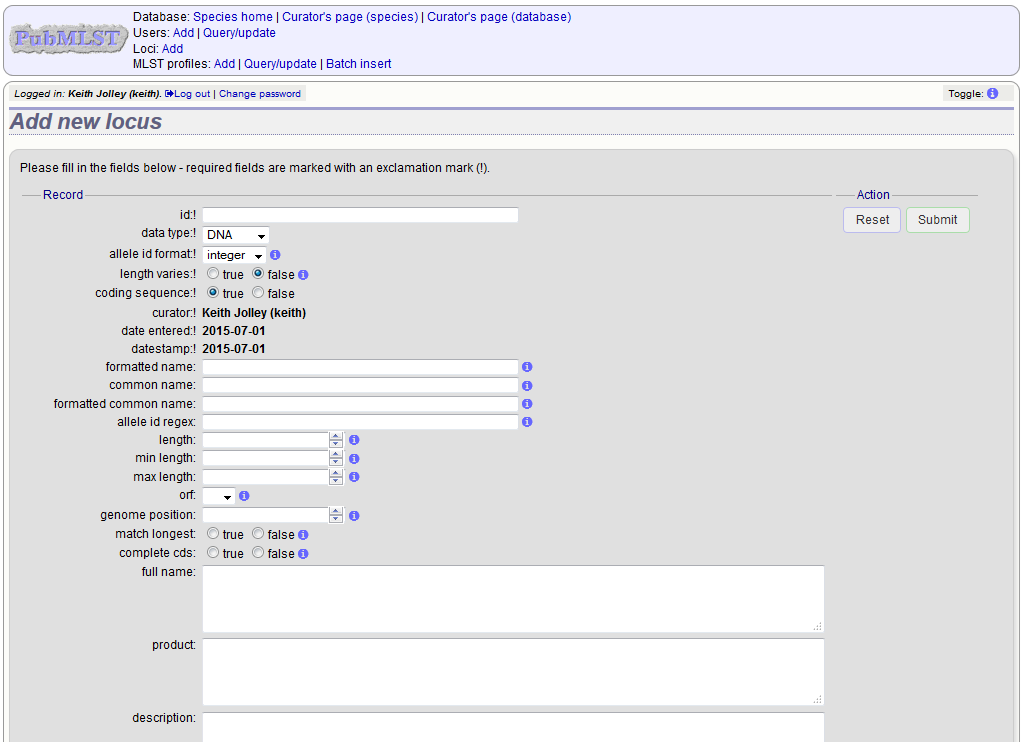
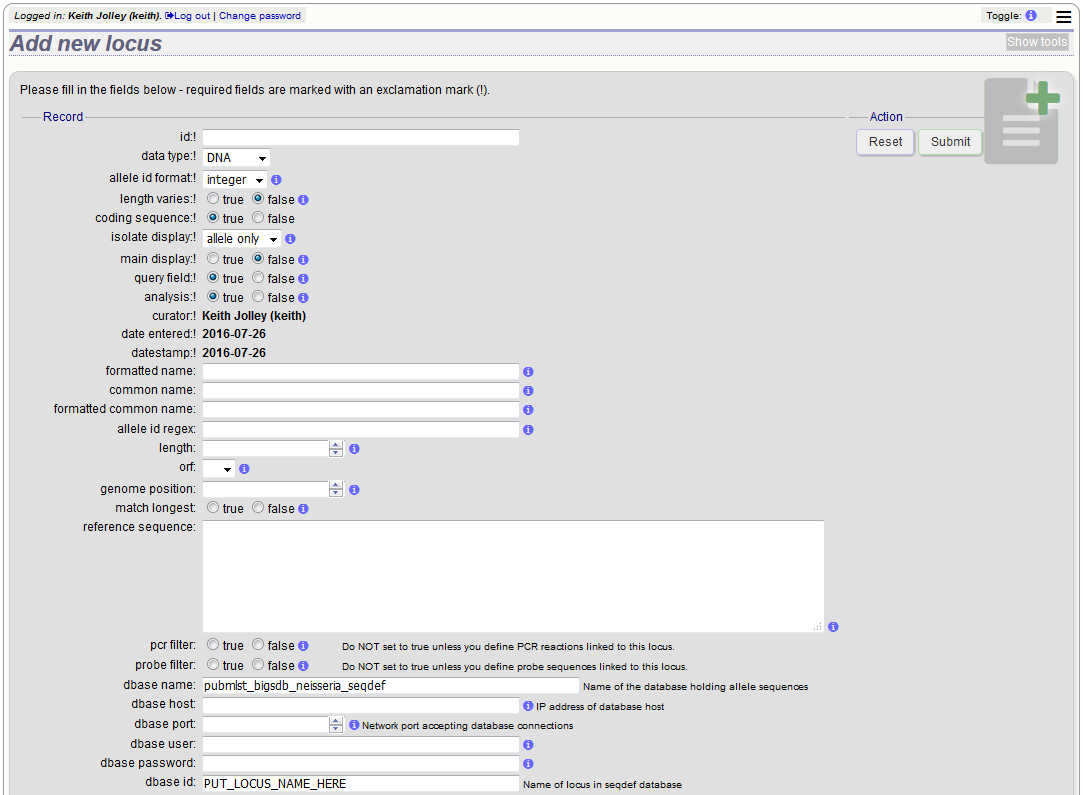
Isolate db loci table now uses dbase_id.

diff --git a/administration.rst b/administration.rst
@@ -773,12 +773,6 @@ exclamation mark (!) next to them:
 
   * Allowed: true/false.
 
-* flag_table - Set to true to specify that the sequence definition database 
-  contains an allele flag table (which is the case for BIGSdb version 1.4 
-  onwards).
-
-  * Allowed: true/false.
-
 * isolate_display - Sets how alleles for this locus are displayed in a 
   detailed isolate record - this can be overridden by user preference.
 
@@ -892,32 +886,8 @@ exclamation mark (!) next to them:
 
   * Allowed: any text (no spaces).
 
-* dbase_table - Table in the sequence definition database that contains allele 
-  sequences for this locus. If the definition database uses BIGSdb this will 
-  be 'sequences'.
-
-  * Allowed: any text (no spaces).
-
-* dbase_id_field - Primary field in sequence database that defines allele. If 
-  the definition database uses BIGSdb this will be 'allele_id'.
-
-  * Allowed: any text (no spaces).
-
-* dbase_id2_field - Secondary field in sequence database that defines alleles. 
-  If dbase_id_field uniquely defines alleles for this locus then this should be
-  left blank. If the definition database uses BIGSdb this will be 'locus'.
-
-  * Allowed: any text (no spaces).
-
-* dbase_id2_value - Secondary field value in sequence database that defines 
-  alleles. If dbase_id_field uniquely defines alleles for this locus then this 
-  should be left blank. If the definition database uses BIGSdb this will be 
-  the name of the locus used in the id field
-
-  * Allowed: any text (no spaces).
-
-* dbase_seq_field - Field in sequence database containing allele sequence. If 
-  the definition database uses BIGSdb this will be 'sequence'.
+* dbase_id - Name of locus in seqdef database. This is usually the same as the
+  id field.
 
   * Allowed: any text (no spaces).
 
